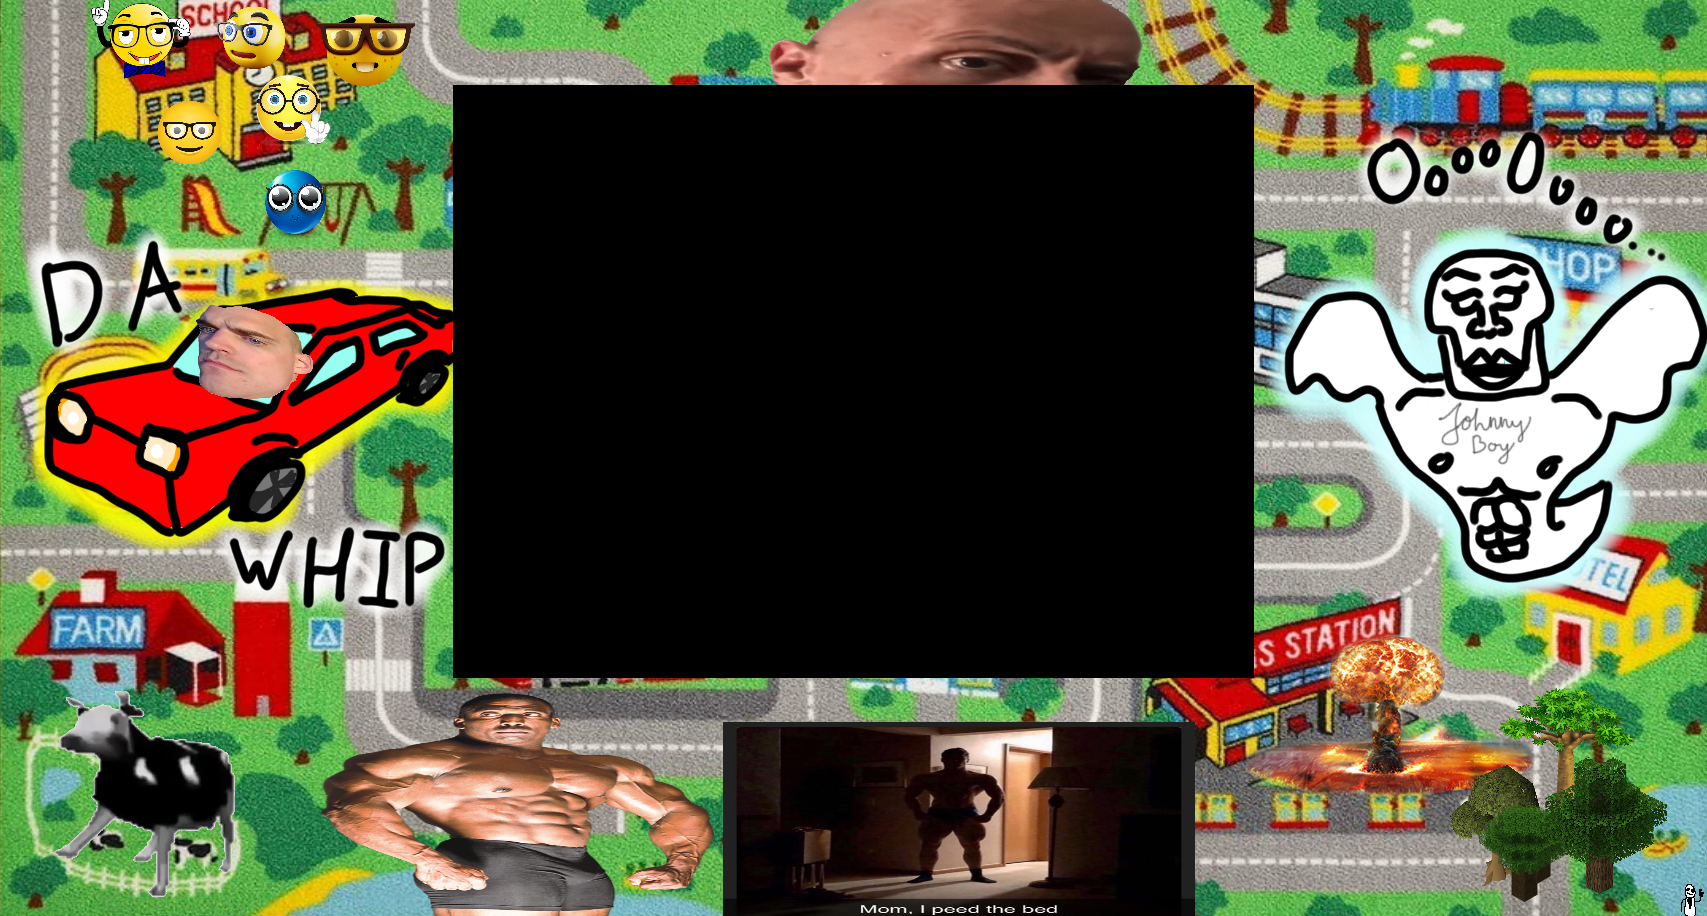
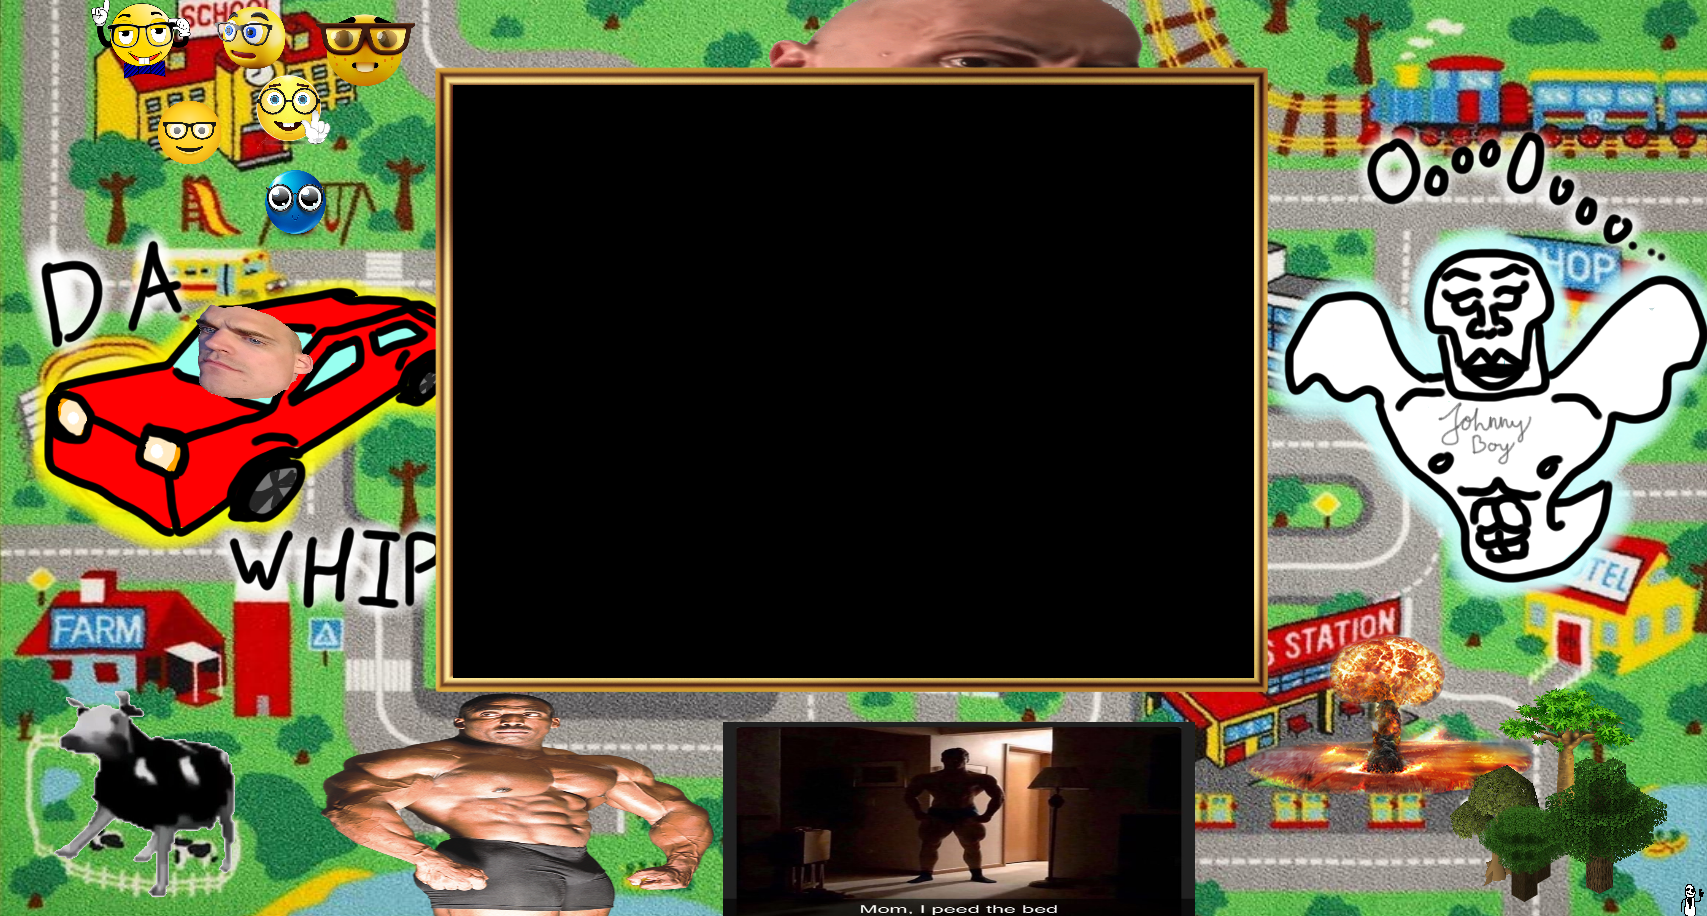
1

Changed region(s): [[0.2484, 0.0611, 0.7452, 0.7642]]

diff --git a/js/main.js b/js/main.js
@@ -1,8 +1,7 @@
 document.getElementById('mainTitle').innerText = "Haunt 'em John!";
 
-document.getElementById('tilemapImg').draggable = false;
+document.getElementById('overworldImg').draggable = false;
 document.getElementById('playerImg').draggable = false;
-
 
 const player = document.getElementById('player');
 const gameWindow = document.getElementById('gameWindow');
@@ -15,45 +14,56 @@ let door3locked = true;
 let door3count = 0; // count how many times door 3 has been clicked
 
 
-dialogueBox.classList.add("disabled");
+
 
 gameWindow.onclick = function (e) {
-    var rect = gameWindow.getBoundingClientRect();
-    var x = e.clientX - rect.left; // mouse x
-    var y = e.clientY - rect.top;  // mouse y
-    player.style.left = x - playerOffset + "px";
-    player.style.top = y - playerOffset + "px";
-    dialogueBox.classList.remove("typed");
+    if (door3locked == true) {
+        var rect = gameWindow.getBoundingClientRect();
+        var x = e.clientX - rect.left; // mouse x
+        var y = e.clientY - rect.top;  // mouse y
+        player.style.left = x - playerOffset + "px";
+        player.style.top = y - playerOffset + "px";
+        dialogueBox.classList.remove("typed");
 
-    switch (e.target.id) {
-        case "door1":
-            dialogueBox.classList.remove("disabled");
-            dialogueBox.classList.add("typed");
-            door1Audio.play();
-            showSpeech("<You hear garbled nonsense>")
-            break;
-        case "door2":
-            dialogueBox.classList.remove("disabled");
-            dialogueBox.classList.add("typed");
-            door2Audio.play();
-            showSpeech("<You feel an overbearing presence telling you not to go in>")
-            break;
-        case "door3":
-            if (door3locked == true) {
+        switch (e.target.id) {
+            case "door1":
                 dialogueBox.classList.remove("disabled");
                 dialogueBox.classList.add("typed");
-                showSpeech("<The door is locked>");
-            }
-            break;
-        case "treePrank":
-            dialogueBox.classList.remove("disabled");
-            dialogueBox.classList.add("typed");
-            door2Audio.play();
-            showSpeech("<Some teenager thought it would be a funny prank to plant\r\nsome trees in the middle of the road>")
-            break;
-        default:
-            dialogueBox.classList.add("disabled");
-            break;
+                door1Audio.play();
+                showSpeech("<You hear garbled nonsense>")
+                break;
+            case "door2":
+                dialogueBox.classList.remove("disabled");
+                dialogueBox.classList.add("typed");
+                door2Audio.play();
+                showSpeech("<You feel an overbearing presence telling you not to go in>")
+                break;
+            case "door3":
+                door3count++;
+
+                if (door3locked == true) {
+                    dialogueBox.classList.remove("disabled");
+                    dialogueBox.classList.add("typed");
+                    showSpeech("<The door is locked>");
+                }
+
+                if (door3count > 2) {
+                    door3locked = false;
+                }
+                break;
+            case "treePrank":
+                dialogueBox.classList.remove("disabled");
+                dialogueBox.classList.add("typed");
+                door2Audio.play();
+                showSpeech("<Some teenager thought it would be a funny prank to plant\r\nsome trees in the middle of the road>")
+                break;
+            default:
+                door3count = 0;
+                dialogueBox.classList.add("disabled");
+                break;
+        }
+    } else if (door3locked == false) {
+        window.alert("NONONONONONO");
     }
 }
 

diff --git a/css/stylesheet.css b/css/stylesheet.css
@@ -3,11 +3,11 @@
 body {
     font-family: 'Quicksand', sans-serif;
 
-    /* background-color: gray; */
+    background-color: #002a00;
     background-image: url("../../img/PointAndClick cover.png");
-    /* background-repeat: no-repeat; */
+    background-repeat: no-repeat;
     background-attachment: fixed;
-    /* background-size: cover; */
+    background-position: center 0px;
 
     display: grid;
     grid-template-columns: auto 800px auto;
@@ -16,7 +16,10 @@ body {
 #mainTitle {
     grid-column-start: 2;
     text-align: center;
-    text-shadow: 1px 1px 0px white;
+    text-shadow: 1px 1px 0px rgb(255, 255, 255);
+
+    box-shadow: 0px 0px 10px white;
+    background-color: rgba(255, 255, 255, 0.555);
 }
 
 #gameWindow {
@@ -113,7 +116,7 @@ body {
     width: 0;
     animation: typing;
     animation-duration: 0.5s;
-    animation-timing-function: steps(1000, end);
+    animation-timing-function: steps(20, end);
     animation-fill-mode: forwards;
 }
 

diff --git a/index.html b/index.html
@@ -22,15 +22,15 @@
             <img id="playerImg" src="img\schizo ghost.png" alt="player" width="16" height="16">
         </div>
         <!-- Background -->
-        <div id="tilemap" class="background">
-            <img id="tilemapImg" src="img\SD Praktijk Tilemap.png" alt="town">
+        <div id="overworld" class="background">
+            <img id="overworldImg" src="img\SD Praktijk Tilemap.png" alt="town">
         </div>
 
     </div>
     <audio id="door1Audio" src="audio\ricardo pong noises boop.mp3" type="audio/mpeg"></audio>
     <audio id="door2Audio" src="audio\ricardo pong noises crash.mp3" type="audio/mpeg"></audio>
     
-    <div id="dialogueBox"></div>
+    <div id="dialogueBox" class="disabled"></div>
 
 </body>
 <script src="js\main.js"></script>
